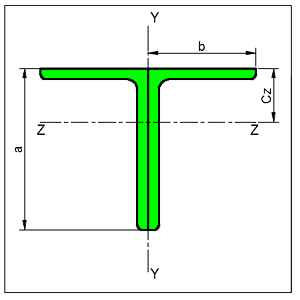
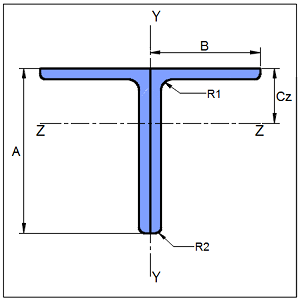
images for dp updated and other changes

Changed region(s): [[0.0, 0.0, 1.0, 1.0], [0.6, 0.3, 0.75, 0.33], [0.57, 0.81, 0.72, 0.84]]

diff --git a/design_type/connection/shear_connection.py b/design_type/connection/shear_connection.py
@@ -53,6 +53,7 @@ class ShearConnection(Connection):
             m_o_r = "76.9"
             p_r = "0.3"
             t_e = "12"
+            image = ''
         else:
             designation = str(input_dictionary[KEY_ANGLE_LIST][0])
             material_grade = str(input_dictionary[KEY_MATERIAL])
@@ -87,6 +88,11 @@ class ShearConnection(Connection):
             plast_sec_mod_z = str(Angle_attributes.plast_sec_mod_z)
             plast_sec_mod_y = str(Angle_attributes.plast_sec_mod_y)
             torsion_const = str(Angle_attributes.It)
+            if a == b:
+                image = VALUES_IMG_TENSIONBOLTED_DF01[0]
+            else:
+                image = VALUES_IMG_TENSIONBOLTED_DF02[0]
+
 
         if KEY_CONNECTOR_MATERIAL in input_dictionary.keys():
             material_grade = input_dictionary[KEY_CONNECTOR_MATERIAL]
@@ -207,7 +213,7 @@ class ShearConnection(Connection):
         t13 = (None, None, TYPE_BREAK, None, None)
         section.append(t13)
 
-        t33 = (KEY_IMAGE, None, TYPE_IMAGE, None, 'ResourceFiles/images/Angles.png')
+        t33 = (KEY_IMAGE, None, TYPE_IMAGE, None, image)
         section.append(t33)
 
         t17 = (None, KEY_DISP_SEC_PROP, TYPE_TITLE, None, None)
@@ -245,12 +251,14 @@ class ShearConnection(Connection):
             pm_z = ''
             pm_y = ''
             I_t = ''
+            image = ''
 
         else:
             a = float(self[0])
             b = float(self[1])
             t = float(self[2])
             l = None
+
             sec_prop = Single_Angle_Properties()
             mass = sec_prop.calc_Mass(a,b,t,l)
             area = sec_prop.calc_Area(a,b,t,l)
@@ -269,6 +277,8 @@ class ShearConnection(Connection):
             pm_z = sec_prop.calc_PlasticModulusZpz(a,b,t,l)
             pm_y = sec_prop.calc_PlasticModulusZpy(a,b,t,l)
             I_t = sec_prop.calc_TorsionConstantIt(a,b,t,l)
+            image = VALUES_IMG_TENSIONBOLTED_DF01[0]
+
 
 
         d = {'Label_9': str(mass),
@@ -288,6 +298,7 @@ class ShearConnection(Connection):
              'Label_21': str(pm_z),
              'Label_22': str(pm_y),
              'Label_23': str(I_t),
+             KEY_IMAGE: image
              }
 
         return d
@@ -296,6 +307,7 @@ class ShearConnection(Connection):
 
         designation = self[0]
         material_grade = self[1]
+
 
         Angle_attributes = Angle(designation, material_grade)
         Angle_attributes.connect_to_database_update_other_attributes_angles(designation, material_grade)
@@ -325,6 +337,8 @@ class ShearConnection(Connection):
         plast_sec_mod_z = str(Angle_attributes.plast_sec_mod_z)
         plast_sec_mod_y = str(Angle_attributes.plast_sec_mod_y)
         torsion_const = str(Angle_attributes.It)
+        image = VALUES_IMG_TENSIONBOLTED_DF01[0]
+
         d = {
             KEY_ANGLE_SELECTED:designation,
             KEY_CONNECTOR_MATERIAL: material_grade,
@@ -353,7 +367,10 @@ class ShearConnection(Connection):
             'Label_21':plast_sec_mod_z,
             'Label_22':plast_sec_mod_y,
             'Label_23':torsion_const,
-            'Label_24':source}
+            'Label_24':source,
+            KEY_IMAGE: image
+
+        }
         return d
 
     @staticmethod

diff --git a/design_type/connection/cleat_angle_connection.py b/design_type/connection/cleat_angle_connection.py
@@ -54,27 +54,26 @@ class CleatAngleConnection(ShearConnection):
 
         t5 = (DISP_TITLE_CLEAT, ['Label_1', 'Label_2','Label_3'],
               ['Label_7', 'Label_8', 'Label_9', 'Label_10', 'Label_11', 'Label_12', 'Label_13', 'Label_14', 'Label_15',
-               'Label_16', 'Label_17', 'Label_18', 'Label_19', 'Label_20', 'Label_21', 'Label_22', 'Label_23'],
+               'Label_16', 'Label_17', 'Label_18', 'Label_19', 'Label_20', 'Label_21', 'Label_22', 'Label_23', KEY_IMAGE],
               TYPE_TEXTBOX, self.get_Angle_sec_properties)
         change_tab.append(t5)
 
         t6 = (DISP_TITLE_CLEAT, [KEY_ANGLE_LIST, KEY_CONNECTOR_MATERIAL],
               [KEY_ANGLE_SELECTED, KEY_CONNECTOR_FY, KEY_CONNECTOR_FU, 'Label_1', 'Label_2', 'Label_3', 'Label_4', 'Label_5', 'Label_7',
-               'Label_8', 'Label_9',
-               'Label_10', 'Label_11', 'Label_12', 'Label_13', 'Label_14', 'Label_15', 'Label_16', 'Label_17',
-               'Label_18',
-               'Label_19', 'Label_20', 'Label_21', 'Label_22', 'Label_23','Label_24'], TYPE_TEXTBOX,
+               'Label_8', 'Label_9','Label_10', 'Label_11', 'Label_12', 'Label_13', 'Label_14', 'Label_15', 'Label_16', 'Label_17',
+               'Label_18','Label_19', 'Label_20', 'Label_21', 'Label_22', 'Label_23','Label_24', KEY_IMAGE], TYPE_TEXTBOX,
               self.get_new_angle_section_properties)
         change_tab.append(t6)
 
-        t4 = (KEY_DISP_COLSEC, ['Label_1', 'Label_2', 'Label_3', 'Label_4'],
+
+        t4 = (KEY_DISP_COLSEC, ['Label_1', 'Label_2', 'Label_3', 'Label_4', 'Label_5'],
               ['Label_11', 'Label_12', 'Label_13', 'Label_14', 'Label_15', 'Label_16', 'Label_17', 'Label_18',
-               'Label_19', 'Label_20','Label_21','Label_22'], TYPE_TEXTBOX, self.get_I_sec_properties)
+               'Label_19', 'Label_20','Label_21','Label_22',KEY_IMAGE], TYPE_TEXTBOX, self.get_I_sec_properties)
         change_tab.append(t4)
 
-        t5 = (KEY_DISP_BEAMSEC, ['Label_1', 'Label_2', 'Label_3', 'Label_4'],
+        t5 = (KEY_DISP_BEAMSEC, ['Label_1', 'Label_2', 'Label_3', 'Label_4', 'Label_5'],
               ['Label_11', 'Label_12', 'Label_13', 'Label_14', 'Label_15', 'Label_16', 'Label_17', 'Label_18',
-               'Label_19', 'Label_20','Label_21','Label_22'], TYPE_TEXTBOX, self.get_I_sec_properties)
+               'Label_19', 'Label_20','Label_21','Label_22',KEY_IMAGE], TYPE_TEXTBOX, self.get_I_sec_properties)
         change_tab.append(t5)
 
         return change_tab

diff --git a/design_type/connection/connection.py b/design_type/connection/connection.py
@@ -44,7 +44,7 @@ class Connection(Main):
             plast_sec_mod_y = ''
             torsion_const = ''
             warping_const = ''
-
+            image= ''
         else:
             designation = str(input_dictionary[KEY_SUPTNGSEC])
             material_grade = str(input_dictionary[KEY_MATERIAL])
@@ -77,6 +77,11 @@ class Connection(Main):
             plast_sec_mod_y = str(I_sec_attributes.plast_sec_mod_y)
             torsion_const = str(I_sec_attributes.It)
             warping_const = str(I_sec_attributes.Iw)
+            if flange_slope != 90:
+                image = VALUES_IMG_BEAM[0]
+            else:
+                image = VALUES_IMG_BEAM[1]
+
 
         if KEY_SUPTNGSEC_MATERIAL in input_dictionary.keys():
             material_grade = input_dictionary[KEY_SUPTNGSEC_MATERIAL]
@@ -176,7 +181,7 @@ class Connection(Main):
         t28 = (None, None, TYPE_BREAK, None, None)
         supporting_section.append(t28)
 
-        t33 = (KEY_IMAGE, None, TYPE_IMAGE, None, VALUES_IMG_BEAM)
+        t33 = (KEY_IMAGE, None, TYPE_IMAGE, None, image)
         supporting_section.append(t33)
 
         t17 = (None, KEY_DISP_SEC_PROP, TYPE_TITLE, None, None)
@@ -230,6 +235,7 @@ class Connection(Main):
             plast_sec_mod_y = ''
             torsion_const = ''
             warping_const = ''
+            image = ''
 
         else:
             designation = str(input_dictionary[KEY_SUPTDSEC])
@@ -264,6 +270,10 @@ class Connection(Main):
             plast_sec_mod_y = str(I_sec_attributes.plast_sec_mod_y)
             torsion_const = str(I_sec_attributes.It)
             warping_const = str(I_sec_attributes.Iw)
+            # if flange_slope != 90:
+            #     image = VALUES_IMG_BEAM[0]
+            # else:
+            #     image = VALUES_IMG_BEAM[1]
 
         if KEY_SUPTDSEC_MATERIAL in input_dictionary.keys():
             material_grade = input_dictionary[KEY_SUPTDSEC_MATERIAL]
@@ -363,7 +373,10 @@ class Connection(Main):
         t28 = (None, None, TYPE_BREAK, None, None)
         supporting_section.append(t28)
 
-        t33 = (KEY_IMAGE, None, TYPE_IMAGE, None, 'ResourceFiles/images/ISection.png')
+        if flange_slope != 90:
+            t33 = (KEY_IMAGE, None, TYPE_IMAGE, None, VALUES_IMG_BEAM[0])
+        else:
+            t33 = (KEY_IMAGE, None, TYPE_IMAGE, None, VALUES_IMG_BEAM[1])
         supporting_section.append(t33)
 
         t17 = (None, KEY_DISP_SEC_PROP, TYPE_TITLE, None, None)

diff --git a/design_type/main.py b/design_type/main.py
@@ -198,12 +198,14 @@ class Main():
             pm_y = ''
             I_t = ''
             I_w = ''
+            image = ''
 
         else:
             D = float(self[0])
             B = float(self[1])
             t_w = float(self[2])
             t_f = float(self[3])
+            sl = float(self[4])
 
             sec_prop = I_sectional_Properties()
             mass = sec_prop.calc_Mass(D, B, t_w, t_f)
@@ -217,7 +219,11 @@ class Main():
             pm_z = sec_prop.calc_PlasticModulusZpz(D, B, t_w, t_f)
             pm_y = sec_prop.calc_PlasticModulusZpy(D, B, t_w, t_f)
             I_t = sec_prop.calc_torsion_const(D,B,t_w,t_f)
-            I_w = sec_prop.calc_torsion_const(D, B, t_w, t_f)
+            I_w = sec_prop.calc_torsion_const(D,B,t_w, t_f)
+            if sl != 90:
+                image = VALUES_IMG_BEAM[0]
+            else:
+                image = VALUES_IMG_BEAM[1]
 
         d = {'Label_11': str(mass),
              'Label_12': str(area),
@@ -231,6 +237,7 @@ class Main():
              'Label_20': str(pm_y),
              'Label_21': str(I_t),
              'Label_22': str(I_w),
+             KEY_IMAGE: image
             }
 
         return d

diff --git a/design_type/connection/fin_plate_connection.py b/design_type/connection/fin_plate_connection.py
@@ -62,14 +62,14 @@ class FinPlateConnection(ShearConnection):
 
         change_tab.append(t3)
 
-        t4 = (KEY_DISP_COLSEC, ['Label_1', 'Label_2', 'Label_3', 'Label_4'],
+        t4 = (KEY_DISP_COLSEC, ['Label_1', 'Label_2', 'Label_3', 'Label_4', 'Label_5'],
               ['Label_11', 'Label_12', 'Label_13', 'Label_14', 'Label_15', 'Label_16', 'Label_17', 'Label_18',
-               'Label_19', 'Label_20','Label_21','Label_22'], TYPE_TEXTBOX, self.get_I_sec_properties)
+               'Label_19', 'Label_20','Label_21','Label_22',KEY_IMAGE], TYPE_TEXTBOX, self.get_I_sec_properties)
         change_tab.append(t4)
 
-        t5 = (KEY_DISP_BEAMSEC, ['Label_1', 'Label_2', 'Label_3', 'Label_4'],
+        t5 = (KEY_DISP_BEAMSEC, ['Label_1', 'Label_2', 'Label_3', 'Label_4','Label_5'],
               ['Label_11', 'Label_12', 'Label_13', 'Label_14', 'Label_15', 'Label_16', 'Label_17', 'Label_18',
-               'Label_19', 'Label_20','Label_21','Label_22'], TYPE_TEXTBOX, self.get_I_sec_properties)
+               'Label_19', 'Label_20','Label_21','Label_22',KEY_IMAGE], TYPE_TEXTBOX, self.get_I_sec_properties)
         change_tab.append(t5)
 
         return change_tab

diff --git a/Common.py b/Common.py
@@ -378,7 +378,7 @@ VALUES_IMG_TENSIONBOLTED_DF01 = ["ResourceFiles/images/equaldp.png","ResourceFil
 VALUES_IMG_TENSIONBOLTED_DF02 = ["ResourceFiles/images/unequaldp.png","ResourceFiles/images/bblunequaldp.png","ResourceFiles/images/bbsunequaldp.png","ResourceFiles/images/salunequaldp.png","ResourceFiles/images/sasunequaldp.png"]
 VALUES_IMG_TENSIONBOLTED_DF03 = ["ResourceFiles/images/Slope_Channel.png","ResourceFiles/images/Parallel_Channel.png","ResourceFiles/images/Slope_BBChannel.png","ResourceFiles/images/Parallel_BBChannel.png"]
 
-VALUES_IMG_BEAM = "ResourceFiles/images/Slope_Beam.png"
+VALUES_IMG_BEAM = ["ResourceFiles/images/Slope_Beam.png","ResourceFiles/images/Parallel_Beam.png"]
 
 
 VALUES_BEAMSEC = connectdb("Beams")

diff --git a/design_type/member.py b/design_type/member.py
@@ -857,11 +857,11 @@ class Member(Main):
                 mass = sec_prop.calc_Mass(a, b, t, l)
                 area = sec_prop.calc_Area(a, b, t, l)
                 if l == "Long Leg":
-                    Cz = sec_prop.calc_Cz()
+                    Cz = sec_prop.calc_Cz(a, b, t, l)
                     Cy = "N/A"
                 else:
                     Cz = "N/A"
-                    Cy = sec_prop.calc_Cy()
+                    Cy = sec_prop.calc_Cy(a, b, t, l)
                 moa_z = sec_prop.calc_MomentOfAreaZ(a, b, t, l)
                 moa_y = sec_prop.calc_MomentOfAreaY(a, b, t, l)
                 moa_u = "N/A"
